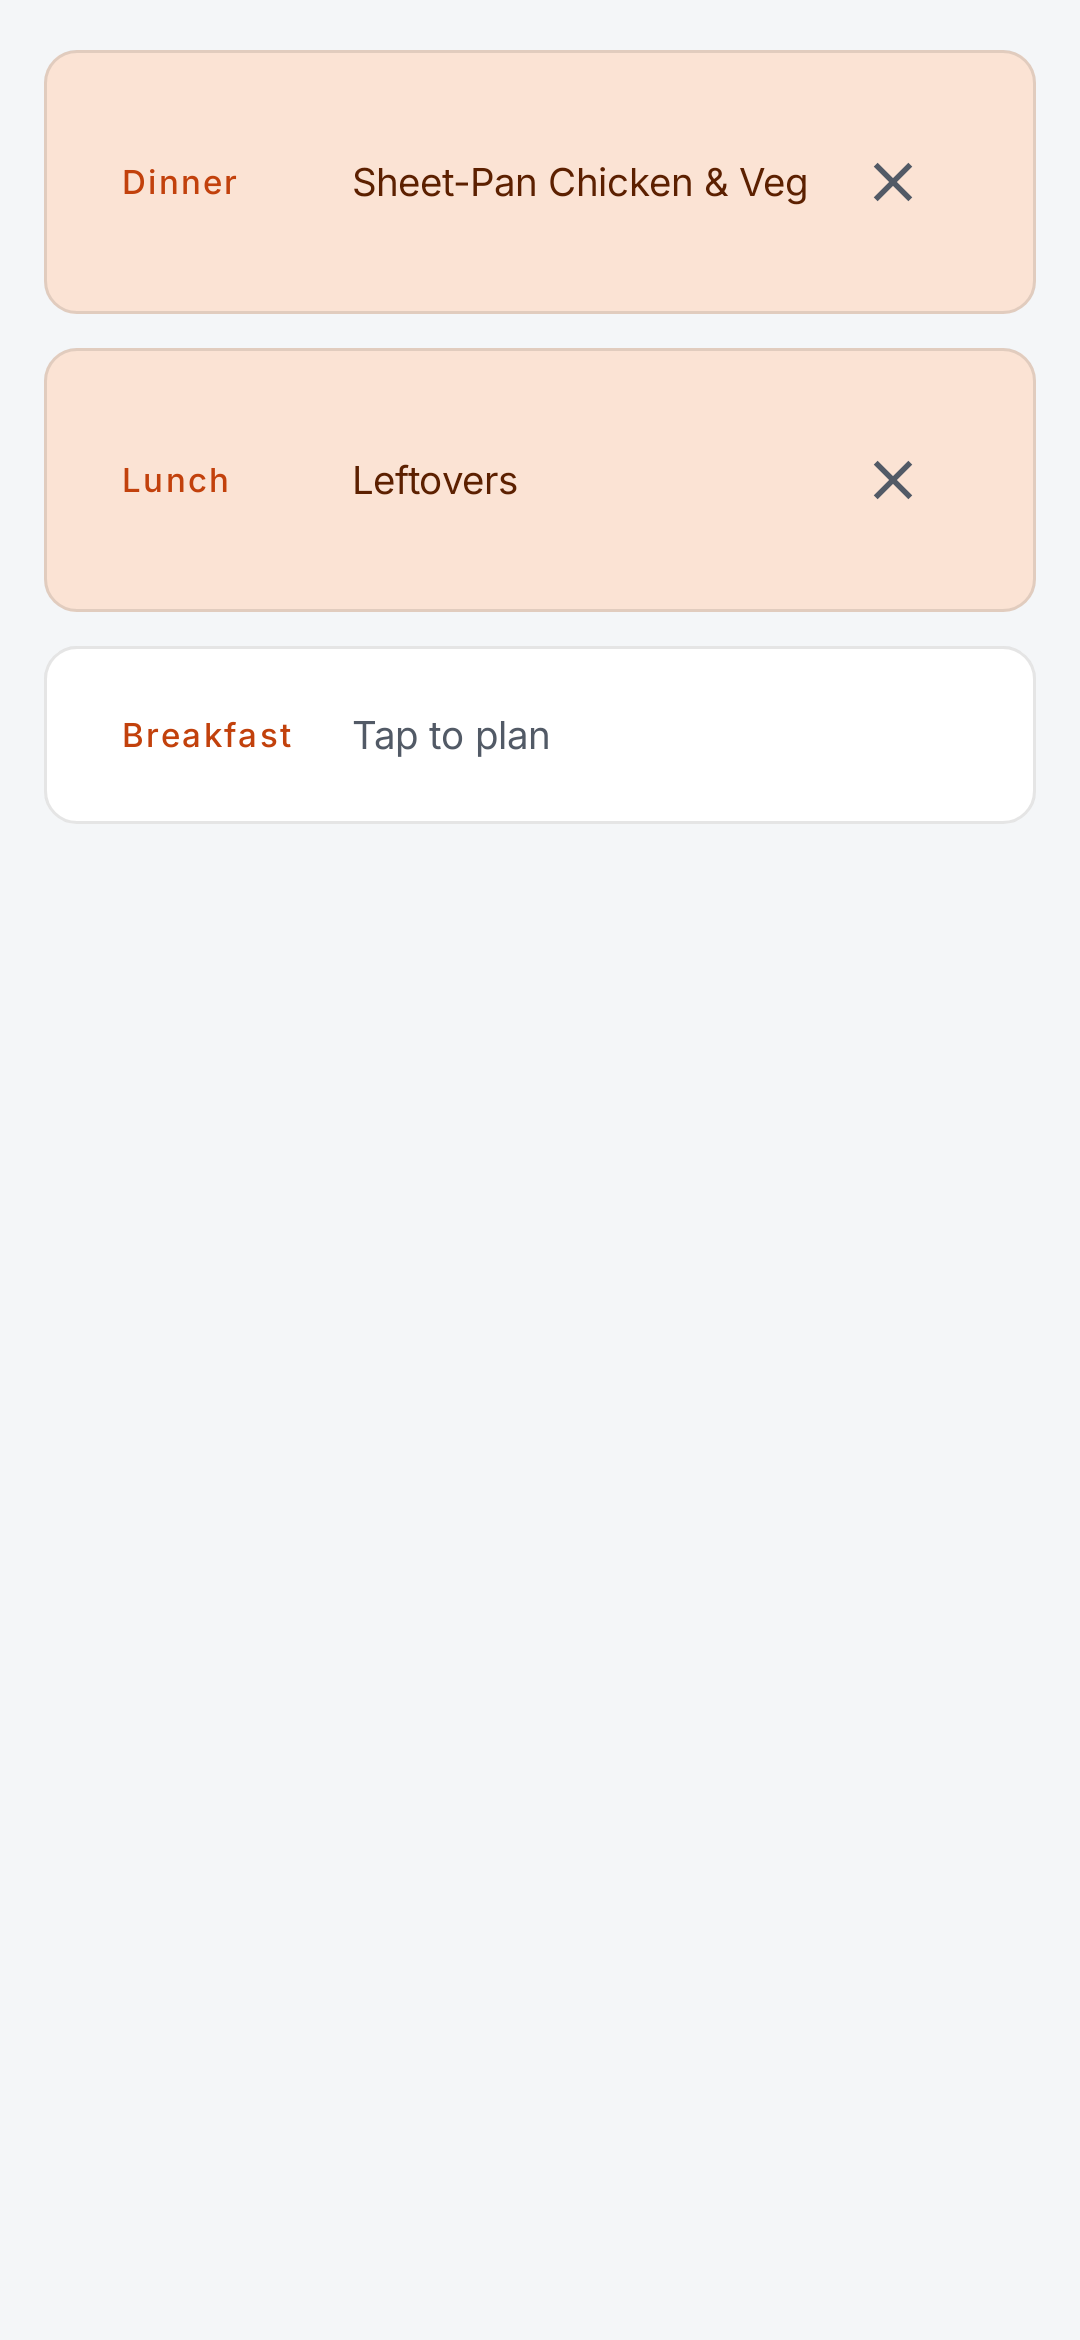
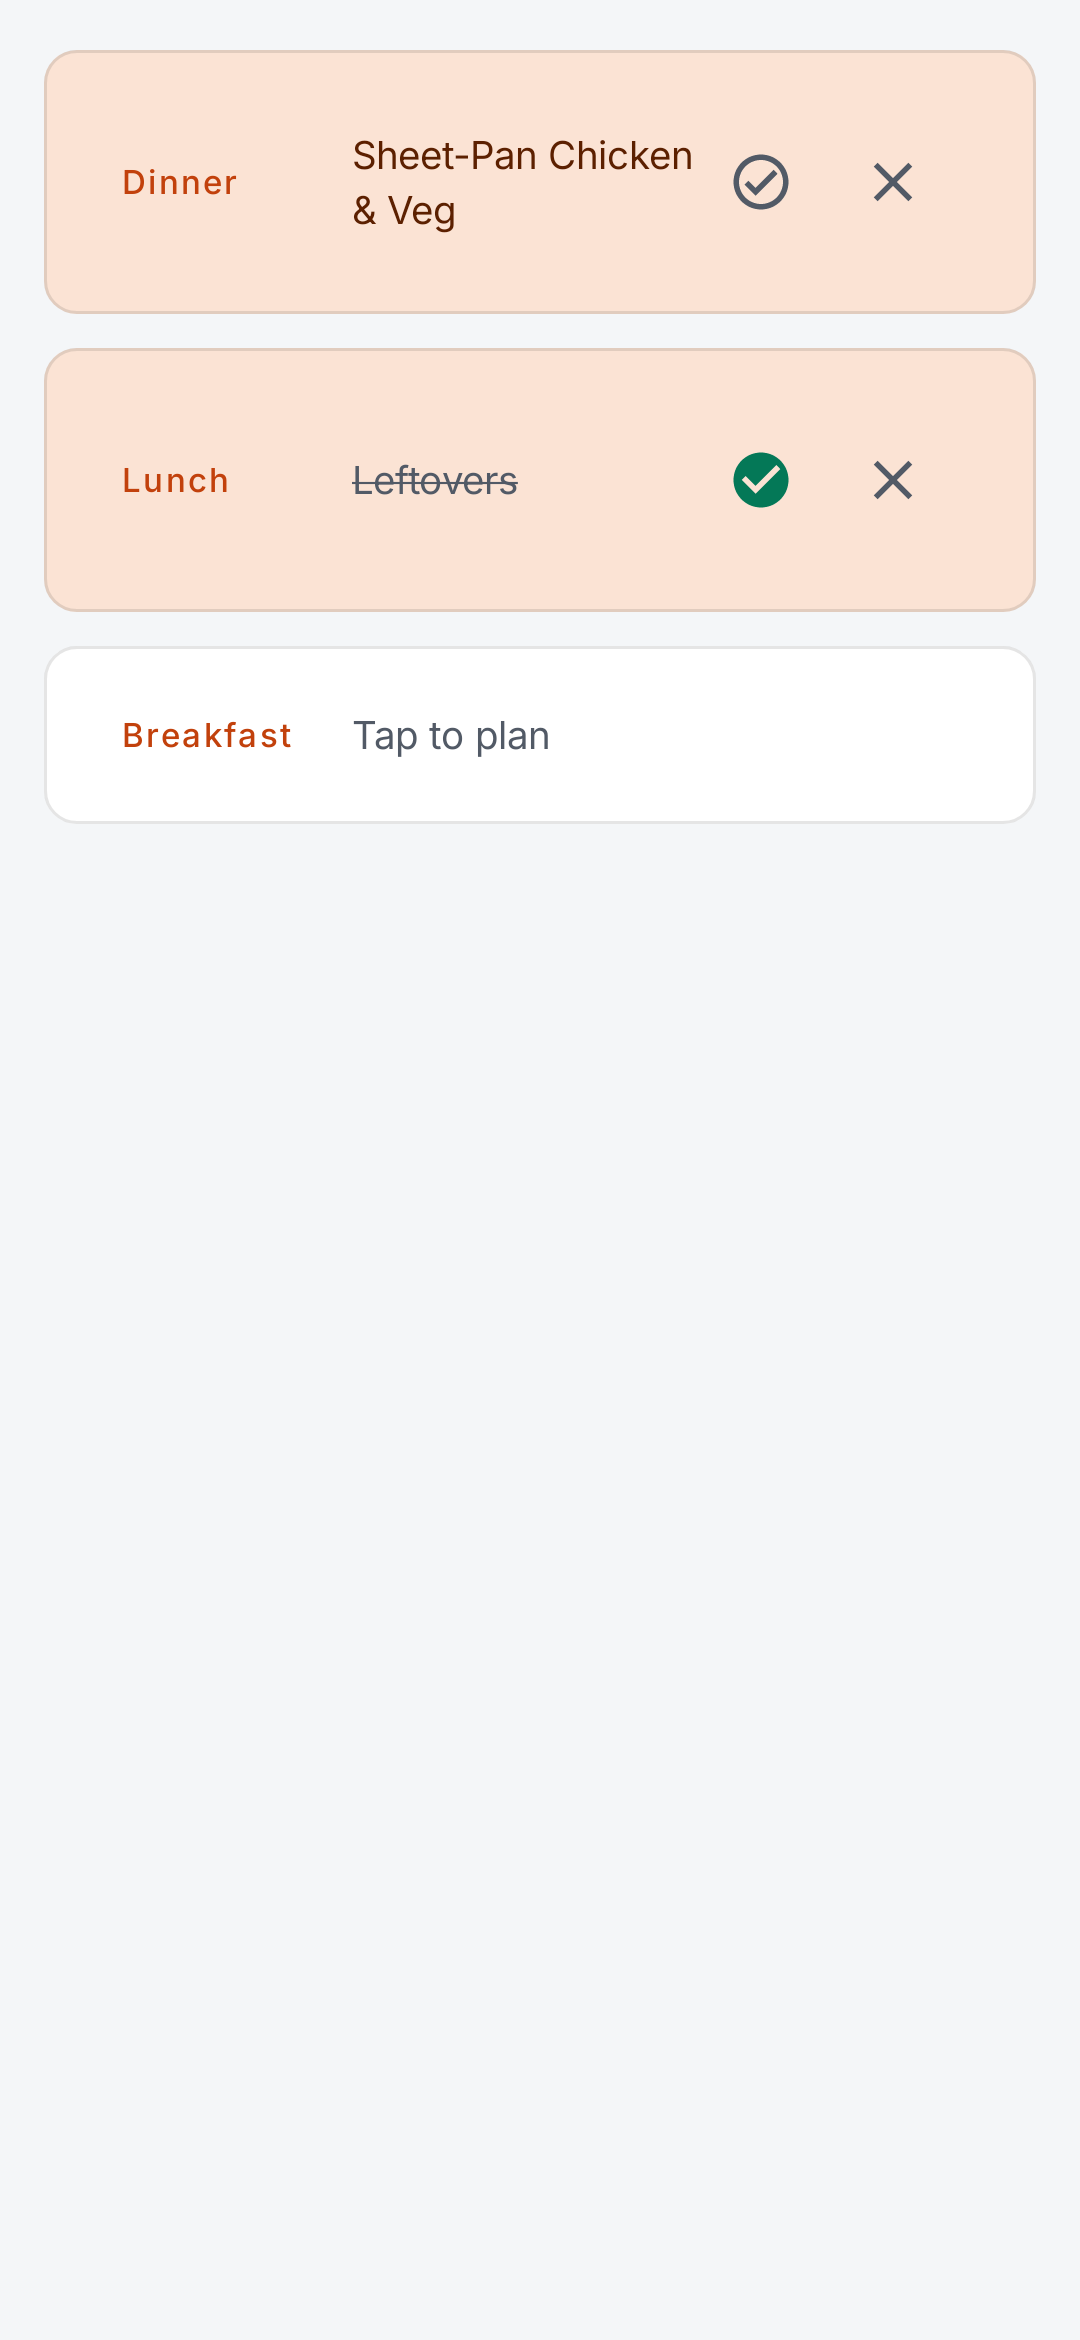
feat(plan): mark a planned meal eaten + surface it to Plate (cross-app)
So Plate's coach can tell 'planned' from 'actually happened':
- Server: MealPlanEntry.eaten column (migration 0008, applied on deploy) + PATCH /plan/{id}
  {eaten}; PlanEntryOut carries eaten; /cross-app/plan entries include eaten (context only).
  set_eaten expires+re-queries so the selectin recipe relationship reloads (async lazy-load guard).
- Android: a check-circle toggle on each planned meal (green filled + strikethrough when eaten,
  Cookbook's 'fresh/done' channel); PATCH via repository/VM. Regression screenshot updated + eyeballed.
Local server tests are environmentally blocked here (cookbook-db unpublished, no pytest in the
prod image), so CI's Server-Test job verifies; ruff clean locally.

Claude-Session: https://claude.ai/code/session_01NSt8MGTxu2TjaoLrKGVXSu

Changed region(s): [[0.3056, 0.0624, 0.7333, 0.0936], [0.3361, 0.1872, 0.4583, 0.2184], [0.6722, 0.1872, 0.7333, 0.2184]]

diff --git a/android/app/src/main/java/com/cookbook/ui/plan/PlanScreen.kt b/android/app/src/main/java/com/cookbook/ui/plan/PlanScreen.kt
@@ -17,7 +17,9 @@ import androidx.compose.foundation.lazy.items
 import androidx.compose.material.icons.Icons
 import androidx.compose.material.icons.automirrored.outlined.ArrowBack
 import androidx.compose.material.icons.automirrored.outlined.ArrowForward
+import androidx.compose.material.icons.filled.CheckCircle
 import androidx.compose.material.icons.outlined.Add
+import androidx.compose.material.icons.outlined.CheckCircle
 import androidx.compose.material.icons.outlined.Close
 import androidx.compose.material3.AlertDialog
 import androidx.compose.material3.CircularProgressIndicator
@@ -42,6 +44,8 @@ import androidx.compose.runtime.remember
 import androidx.compose.runtime.setValue
 import androidx.compose.ui.Alignment
 import androidx.compose.ui.Modifier
+import androidx.compose.ui.graphics.Color
+import androidx.compose.ui.text.style.TextDecoration
 import androidx.compose.ui.unit.dp
 import androidx.hilt.navigation.compose.hiltViewModel
 import com.cookbook.data.remote.MEAL_SLOTS
@@ -127,6 +131,7 @@ fun PlanScreen(
                     onSlotTap = { date, slot -> assigningSlot = date to slot },
                     onRemove = viewModel::removeEntry,
                     onOpenRecipe = onOpenRecipe,
+                    onSetEaten = viewModel::setEaten,
                     modifier = Modifier.weight(1f),
                 )
             }
@@ -164,6 +169,7 @@ private fun WeekList(
     onSlotTap: (LocalDate, String) -> Unit,
     onRemove: (String) -> Unit,
     onOpenRecipe: (String) -> Unit,
+    onSetEaten: (String, Boolean) -> Unit,
     modifier: Modifier = Modifier,
 ) {
     val byDate = entries.groupBy { it.date }
@@ -187,6 +193,7 @@ private fun WeekList(
                         onTap = { if (entry == null) onSlotTap(date, slot) },
                         onRemove = { entry?.let { onRemove(it.id) } },
                         onOpenRecipe = onOpenRecipe,
+                        onSetEaten = { eaten -> entry?.let { onSetEaten(it.id, eaten) } },
                     )
                 }
             }
@@ -201,6 +208,7 @@ internal fun SlotRow(
     onTap: () -> Unit,
     onRemove: () -> Unit,
     onOpenRecipe: (String) -> Unit,
+    onSetEaten: (Boolean) -> Unit = {},
 ) {
     val colors = CookbookTheme.colors
     PanelCard(
@@ -222,6 +230,10 @@ internal fun SlotRow(
                 color = colors.heat.base,
                 modifier = Modifier.width(84.dp),
             )
+            val eaten = entry?.eaten == true
+            // Eaten meals read as done: struck through and dimmed.
+            val nameDecoration = if (eaten) TextDecoration.LineThrough else null
+            val nameColor = if (eaten) MaterialTheme.colorScheme.onSurfaceVariant else Color.Unspecified
             when {
                 entry == null -> Text(
                     "Tap to plan",
@@ -231,18 +243,29 @@ internal fun SlotRow(
                 entry.recipeId != null -> Text(
                     entry.recipeName ?: "Recipe",
                     style = MaterialTheme.typography.bodyMedium,
+                    textDecoration = nameDecoration,
+                    color = nameColor,
                     modifier = Modifier.weight(1f).clickable { onOpenRecipe(entry.recipeId) },
                 )
                 else -> Text(
                     entry.note ?: "",
                     style = MaterialTheme.typography.bodyMedium,
+                    textDecoration = nameDecoration,
+                    color = nameColor,
                     modifier = Modifier.weight(1f),
                 )
             }
             if (entry != null) {
                 // The recipe/note Text above already has weight(1f), so it fills the row and pushes
-                // this button to the end. (A Spacer(weight(0f)) used to sit here and crashed on recipe
-                // entries — Compose's Modifier.weight requires a value > 0.)
+                // these buttons to the end. (A Spacer(weight(0f)) used to sit here and crashed on
+                // recipe entries — Compose's Modifier.weight requires a value > 0.)
+                IconButton(onClick = { onSetEaten(!entry.eaten) }) {
+                    Icon(
+                        if (entry.eaten) Icons.Filled.CheckCircle else Icons.Outlined.CheckCircle,
+                        contentDescription = if (entry.eaten) "Eaten — tap to undo" else "Mark as eaten",
+                        tint = if (entry.eaten) colors.fresh.base else MaterialTheme.colorScheme.onSurfaceVariant,
+                    )
+                }
                 IconButton(onClick = onRemove) {
                     Icon(Icons.Outlined.Close, contentDescription = "Remove", tint = MaterialTheme.colorScheme.onSurfaceVariant)
                 }

diff --git a/android/app/src/main/java/com/cookbook/ui/plan/PlanViewModel.kt b/android/app/src/main/java/com/cookbook/ui/plan/PlanViewModel.kt
@@ -104,6 +104,17 @@ class PlanViewModel @Inject constructor(
         }
     }
 
+    fun setEaten(id: String, eaten: Boolean) {
+        viewModelScope.launch {
+            try {
+                planRepository.setEaten(id, eaten)
+                load()
+            } catch (e: Exception) {
+                _error.value = e.message ?: "Couldn't update that"
+            }
+        }
+    }
+
     fun removeEntry(id: String) {
         viewModelScope.launch {
             try {

diff --git a/android/app/src/main/java/com/cookbook/data/remote/ApiService.kt b/android/app/src/main/java/com/cookbook/data/remote/ApiService.kt
@@ -62,6 +62,12 @@ interface ApiService {
     @POST("plan")
     suspend fun createPlanEntry(@Body req: PlanEntryCreateRequest): PlanEntryOut
 
+    @PATCH("plan/{id}")
+    suspend fun updatePlanEntry(
+        @Path("id") id: String,
+        @Body req: PlanEntryUpdateRequest,
+    ): PlanEntryOut
+
     @DELETE("plan/{id}")
     suspend fun deletePlanEntry(@Path("id") id: String)
 

diff --git a/android/app/src/main/java/com/cookbook/data/repository/PlanRepository.kt b/android/app/src/main/java/com/cookbook/data/repository/PlanRepository.kt
@@ -3,6 +3,7 @@ package com.cookbook.data.repository
 import com.cookbook.data.remote.ApiService
 import com.cookbook.data.remote.PlanEntryCreateRequest
 import com.cookbook.data.remote.PlanEntryOut
+import com.cookbook.data.remote.PlanEntryUpdateRequest
 import com.cookbook.data.remote.PlanToListRequest
 import com.cookbook.data.remote.PlanToListResult
 import javax.inject.Inject
@@ -12,6 +13,7 @@ import javax.inject.Inject
 interface PlanRepository {
     suspend fun getPlan(start: String, end: String): List<PlanEntryOut>
     suspend fun addEntry(date: String, slot: String, recipeId: String?, note: String?): PlanEntryOut
+    suspend fun setEaten(id: String, eaten: Boolean): PlanEntryOut
     suspend fun deleteEntry(id: String)
     suspend fun sendToList(start: String, end: String): PlanToListResult
 }
@@ -29,6 +31,9 @@ class PlanRepositoryImpl @Inject constructor(
         recipeId: String?,
         note: String?,
     ): PlanEntryOut = api.createPlanEntry(PlanEntryCreateRequest(date, slot, recipeId, note))
+
+    override suspend fun setEaten(id: String, eaten: Boolean): PlanEntryOut =
+        api.updatePlanEntry(id, PlanEntryUpdateRequest(eaten))
 
     override suspend fun deleteEntry(id: String) = api.deletePlanEntry(id)
 

diff --git a/android/app/src/main/java/com/cookbook/data/remote/PlanDtos.kt b/android/app/src/main/java/com/cookbook/data/remote/PlanDtos.kt
@@ -22,7 +22,11 @@ data class PlanEntryOut(
     @SerialName("recipe_name") val recipeName: String? = null,
     @SerialName("recipe_image_url") val recipeImageUrl: String? = null,
     val note: String? = null,
+    val eaten: Boolean = false,
 )
+
+@Serializable
+data class PlanEntryUpdateRequest(val eaten: Boolean)
 
 @Serializable
 data class PlanToListRequest(

diff --git a/android/app/src/test/java/com/cookbook/screenshot/ScreenshotTest.kt b/android/app/src/test/java/com/cookbook/screenshot/ScreenshotTest.kt
@@ -81,9 +81,9 @@ private fun PlanSlotsScene() {
         com.cookbook.ui.plan.SlotRow(
             slot = "lunch",
             entry = com.cookbook.data.remote.PlanEntryOut(
-                id = "2", date = "2026-07-14", slot = "lunch", note = "Leftovers",
+                id = "2", date = "2026-07-14", slot = "lunch", note = "Leftovers", eaten = true,
             ),
-            onTap = {}, onRemove = {}, onOpenRecipe = {},
+            onTap = {}, onRemove = {}, onOpenRecipe = {}, onSetEaten = {},
         )
         com.cookbook.ui.plan.SlotRow(
             slot = "breakfast", entry = null,

diff --git a/android/app/src/test/java/com/cookbook/data/repository/ShoppingRepositorySyncTest.kt b/android/app/src/test/java/com/cookbook/data/repository/ShoppingRepositorySyncTest.kt
@@ -16,6 +16,7 @@ import com.cookbook.data.remote.LogToPlateResult
 import com.cookbook.data.remote.LoginRequest
 import com.cookbook.data.remote.PlanEntryCreateRequest
 import com.cookbook.data.remote.PlanEntryOut
+import com.cookbook.data.remote.PlanEntryUpdateRequest
 import com.cookbook.data.remote.PlanToListRequest
 import com.cookbook.data.remote.PlanToListResult
 import com.cookbook.data.remote.PlateMigrationResult
@@ -179,6 +180,7 @@ private class FakeApi : ApiService {
         error("unused")
     override suspend fun getPlan(start: String, end: String): List<PlanEntryOut> = error("unused")
     override suspend fun createPlanEntry(req: PlanEntryCreateRequest): PlanEntryOut = error("unused")
+    override suspend fun updatePlanEntry(id: String, req: PlanEntryUpdateRequest): PlanEntryOut = error("unused")
     override suspend fun deletePlanEntry(id: String) = error("unused")
     override suspend fun planToList(req: PlanToListRequest): PlanToListResult = error("unused")
     override suspend fun addRecipeToList(

diff --git a/server/alembic/versions/0008_plan_entry_eaten.py b/server/alembic/versions/0008_plan_entry_eaten.py
@@ -1,0 +1,32 @@
+"""Meal-plan entries gain an `eaten` flag — surfaced to Plate's coach (cross-app) so it knows
+whether a planned meal actually happened.
+
+Revision ID: 0008
+Revises: 0007
+Create Date: 2026-07-14
+"""
+
+import sqlalchemy as sa
+
+from alembic import op
+
+revision = "0008"
+down_revision = "0007"
+branch_labels = None
+depends_on = None
+
+
+def upgrade() -> None:
+    op.add_column(
+        "meal_plan_entries",
+        sa.Column(
+            "eaten",
+            sa.Boolean(),
+            nullable=False,
+            server_default=sa.false(),
+        ),
+    )
+
+
+def downgrade() -> None:
+    op.drop_column("meal_plan_entries", "eaten")

diff --git a/server/tests/test_plan.py b/server/tests/test_plan.py
@@ -35,6 +35,30 @@ async def test_plan_crud_and_range(auth_client):
     assert len(week) == 1
 
 
+async def test_mark_entry_eaten(auth_client):
+    chili = await _recipe(auth_client, "Chili", [{"name": "Beans", "quantity": 2, "unit": "can"}])
+    created = await auth_client.post(
+        "/plan", json={"date": "2026-07-06", "slot": "dinner", "recipe_id": chili}
+    )
+    entry_id = created.json()["id"]
+    assert created.json()["eaten"] is False
+
+    patched = await auth_client.patch(f"/plan/{entry_id}", json={"eaten": True})
+    assert patched.status_code == 200, patched.text
+    assert patched.json()["eaten"] is True
+    # The recipe name must still resolve after the mutate+re-query (async lazy-load guard).
+    assert patched.json()["recipe_name"] == "Chili"
+
+    week = (
+        await auth_client.get("/plan", params={"start": "2026-07-06", "end": "2026-07-06"})
+    ).json()
+    assert week[0]["eaten"] is True
+
+    # Un-eat works too.
+    unpatched = await auth_client.patch(f"/plan/{entry_id}", json={"eaten": False})
+    assert unpatched.json()["eaten"] is False
+
+
 async def test_entry_needs_exactly_one_of_recipe_or_note(auth_client):
     chili = await _recipe(auth_client, "Chili", [{"name": "Beans", "quantity": 2, "unit": "can"}])
     both = await auth_client.post(

diff --git a/server/app/routers/plan.py b/server/app/routers/plan.py
@@ -6,9 +6,15 @@ from fastapi import APIRouter, Depends, Query, status
 from sqlalchemy.ext.asyncio import AsyncSession
 
 from app.database import get_db
-from app.schemas.plan import PlanEntryCreate, PlanEntryOut, PlanToListRequest, PlanToListResult
+from app.schemas.plan import (
+    PlanEntryCreate,
+    PlanEntryOut,
+    PlanEntryUpdate,
+    PlanToListRequest,
+    PlanToListResult,
+)
 from app.security import CurrentUser
-from app.services.plan_service import add_entry, delete_entry, get_plan, plan_to_list
+from app.services.plan_service import add_entry, delete_entry, get_plan, plan_to_list, set_eaten
 
 router = APIRouter(prefix="/plan", tags=["plan"])
 
@@ -29,6 +35,14 @@ async def read_plan(
 async def create_entry(req: PlanEntryCreate, current_user: CurrentUser, db: DbSession):
     """Plan a recipe (or a free-text note) into a date+slot."""
     return await add_entry(db, current_user.id, req)
+
+
[email redacted]("/{entry_id}", response_model=PlanEntryOut)
+async def update_entry(
+    entry_id: uuid.UUID, req: PlanEntryUpdate, current_user: CurrentUser, db: DbSession
+):
+    """Mark a planned meal eaten (or un-eat it). Plate's coach reads this via cross-app."""
+    return await set_eaten(db, current_user.id, entry_id, req.eaten)
 
 
 @router.delete("/{entry_id}", status_code=status.HTTP_204_NO_CONTENT)

diff --git a/server/app/services/plan_service.py b/server/app/services/plan_service.py
@@ -36,6 +36,7 @@ def _to_out(entry: MealPlanEntry) -> PlanEntryOut:
         recipe_name=entry.recipe.name if entry.recipe is not None else None,
         recipe_image_url=entry.recipe.image_url if entry.recipe is not None else None,
         note=entry.note,
+        eaten=entry.eaten,
     )
 
 
@@ -81,6 +82,23 @@ async def add_entry(db: AsyncSession, user_id: uuid.UUID, req: PlanEntryCreate) 
     db.add(entry)
     await db.commit()
     result = await db.execute(select(MealPlanEntry).where(MealPlanEntry.id == entry.id))
+    return _to_out(result.scalar_one())
+
+
+async def set_eaten(
+    db: AsyncSession, user_id: uuid.UUID, entry_id: uuid.UUID, eaten: bool
+) -> PlanEntryOut:
+    """Mark a planned meal eaten (or un-eat it). Ownership-checked; returns the updated entry."""
+    entry = await db.get(MealPlanEntry, entry_id)
+    if entry is None or entry.user_id != user_id:
+        raise HTTPException(status_code=status.HTTP_404_NOT_FOUND, detail="Entry not found")
+    entry.eaten = eaten
+    await db.commit()
+    # Expire then re-query so the entry loads fresh and its selectin `recipe` relationship fires —
+    # a re-query of the still-mapped instance would return it with `recipe` unloaded, and accessing
+    # it in _to_out would trigger an async lazy load (MissingGreenlet) for recipe entries.
+    db.expire(entry)
+    result = await db.execute(select(MealPlanEntry).where(MealPlanEntry.id == entry_id))
     return _to_out(result.scalar_one())
 
 

diff --git a/server/app/schemas/plan.py b/server/app/schemas/plan.py
@@ -43,6 +43,13 @@ class PlanEntryOut(BaseModel):
     recipe_name: str | None = None
     recipe_image_url: str | None = None
     note: str | None = None
+    eaten: bool = False
+
+
+class PlanEntryUpdate(BaseModel):
+    """Mark a planned meal eaten (or un-eat it) — the only mutable field on an entry."""
+
+    eaten: bool
 
 
 class PlanToListRequest(BaseModel):